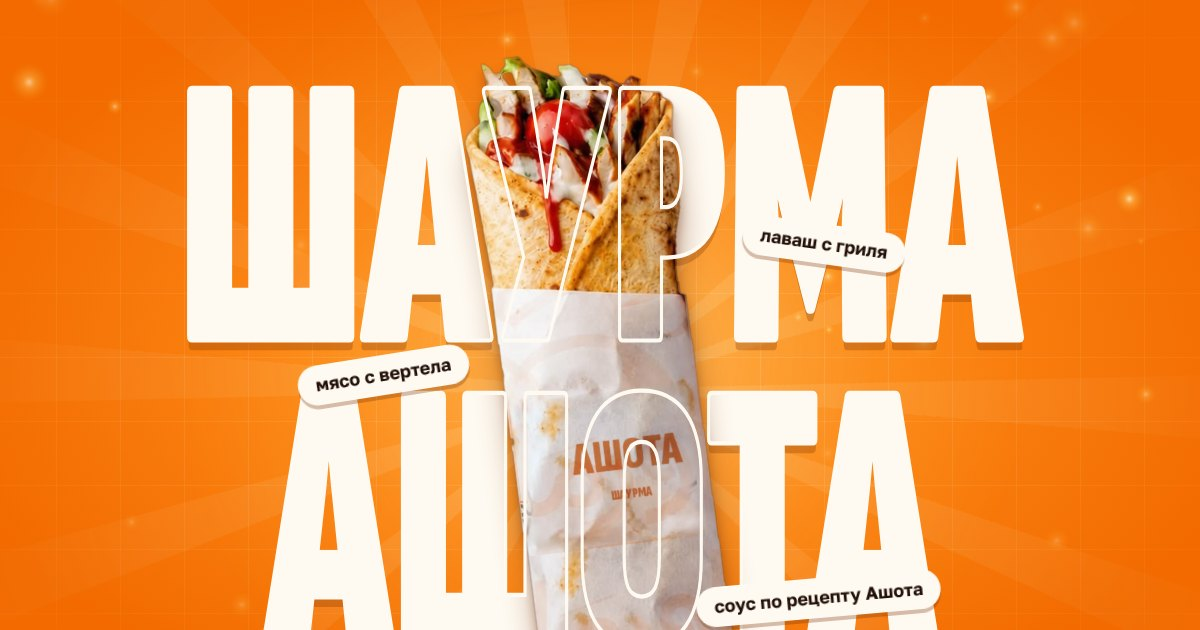
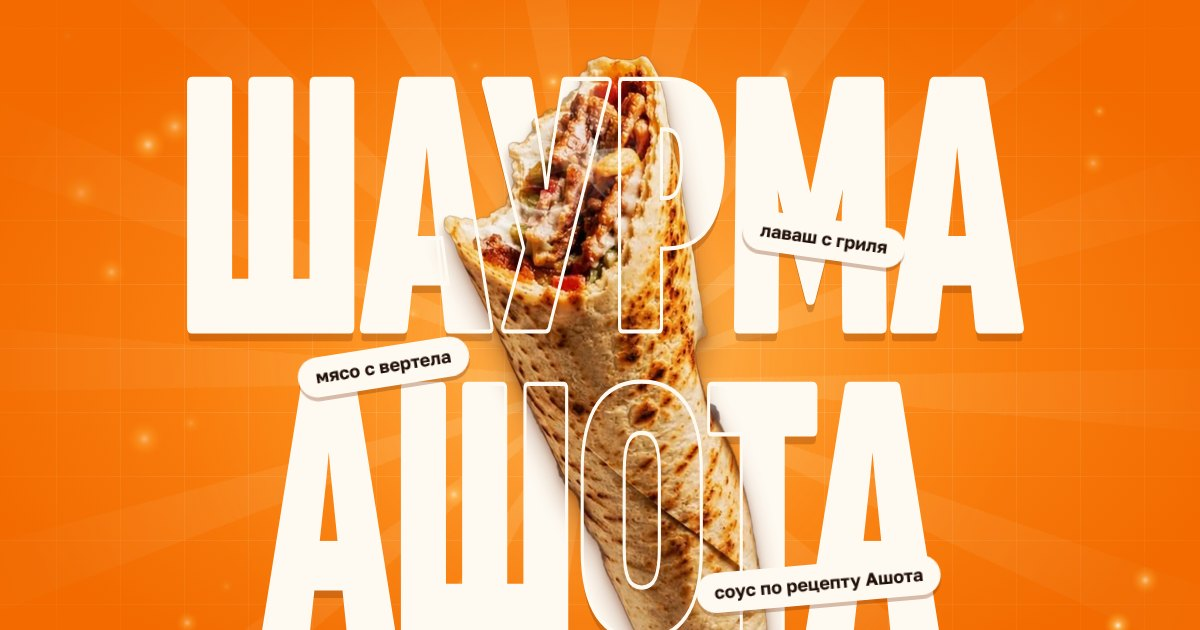
вернул первое фото шаурмы (тень запечена в картинку, без лагов на телефоне)
Claude-Session: https://claude.ai/code/session_01LKqLCBCkB6UpZuAHuehY1V

diff --git a/css/style.css b/css/style.css
@@ -113,7 +113,7 @@ button{cursor:pointer}
 .hero__title--outline{z-index:3;color:transparent;-webkit-text-stroke:max(1.5px,.011em) var(--sauce);pointer-events:none}
 .hero__title--outline .hero__word{text-shadow:none}
 
-.hero__photo{z-index:2;height:calc(var(--fs) * 1.95 * var(--sy));aspect-ratio:813/2000;--px:0px;--py:0px;--rot:-7deg;
+.hero__photo{z-index:2;height:calc(var(--fs) * 1.83 * var(--sy));aspect-ratio:1100/2148;--px:0px;--py:0px;--rot:-7deg;
   transform:translate3d(var(--px),var(--py),0) rotate(var(--rot));will-change:transform}
 .hero__photo img{width:100%;height:100%;object-fit:contain}
 
@@ -146,7 +146,7 @@ button{cursor:pointer}
 /* вертикальные экраны: буквы вытягиваем ещё выше */
 @media (max-aspect-ratio:4/5){
   .hero__stage{--fs:31.5vw;--sy:1.78}
-  .hero__photo{height:calc(var(--fs) * 1.92 * var(--sy))}
+  .hero__photo{height:calc(var(--fs) * 1.77 * var(--sy))}
   .sticker--a{right:auto;left:4vw;top:46.5%}
   .sticker--b{left:auto;right:4vw;top:24%}
   .sticker--c{left:auto;right:5vw;top:79%}
@@ -257,7 +257,7 @@ button{cursor:pointer}
 .opt input:checked + span{background:var(--lavash);border-color:var(--lavash);color:var(--char);font-weight:700}
 .opt input:focus-visible + span{outline:3px solid var(--ember);outline-offset:3px}
 .build__card{position:sticky;top:calc(var(--header-h) + 20px);background:var(--fire);color:var(--char);border-radius:28px;padding:26px 26px 24px;overflow:hidden}
-.build__img{width:112px;float:right;margin:-8px -18px 0 12px;transform:rotate(9deg);filter:drop-shadow(0 12px 14px rgba(90,30,0,.45));shape-outside:polygon(20% 0,100% 0,100% 100%,30% 100%)}
+.build__img{width:165px;float:right;margin:-8px -18px 0 12px;transform:rotate(9deg);filter:drop-shadow(0 12px 14px rgba(90,30,0,.45));shape-outside:polygon(20% 0,100% 0,100% 100%,30% 100%)}
 .build__name{font-family:var(--display);font-weight:900;text-transform:uppercase;font-size:52px;line-height:.9;max-width:4.2em}
 .build__desc{margin-top:14px;font-weight:500;line-height:1.45;min-height:7.5em}
 .build__row{clear:both;display:flex;flex-wrap:wrap;align-items:center;justify-content:space-between;gap:12px;margin-top:14px}

diff --git a/index.html b/index.html
@@ -17,7 +17,7 @@
 <link rel="icon" href="assets/img/favicon.svg" type="image/svg+xml">
 <link rel="manifest" href="manifest.webmanifest">
 <link rel="preload" href="assets/fonts/sofia-sans-extra-condensed-cyrillic-900-normal.woff2" as="font" type="font/woff2" crossorigin>
-<link rel="preload" href="assets/img/shawarma.webp" as="image" imagesrcset="assets/img/shawarma-450.webp 406w, assets/img/shawarma.webp 813w" imagesizes="(max-width: 700px) 60vw, 420px">
+<link rel="preload" href="assets/img/shawarma.webp" as="image" imagesrcset="assets/img/shawarma-450.webp 550w, assets/img/shawarma.webp 1100w" imagesizes="(max-width: 700px) 60vw, 420px">
 <link rel="stylesheet" href="css/style.css">
 </head>
 <body>
@@ -58,9 +58,9 @@
 
     <picture class="hero__photo" id="heroPhoto">
       <img src="assets/img/shawarma.webp"
-           srcset="assets/img/shawarma-450.webp 406w, assets/img/shawarma.webp 813w"
+           srcset="assets/img/shawarma-450.webp 550w, assets/img/shawarma.webp 1100w"
            sizes="(max-width: 700px) 60vw, 420px"
-           width="813" height="2000" alt="Шаурма с курицей, овощами и соусом в фирменной бумаге" fetchpriority="high">
+           width="1100" height="2148" alt="Горячая шаурма с курицей, овощами и чесночным соусом" fetchpriority="high">
     </picture>
 
     <!-- контур букв поверх фото -->
@@ -137,7 +137,7 @@
   <div class="build__grid">
     <form class="build__form" id="builder" novalidate></form>
     <aside class="build__card" aria-live="polite">
-      <img class="build__img" src="assets/img/shawarma-450.webp" width="406" height="1000" alt="" loading="lazy">
+      <img class="build__img" src="assets/img/shawarma-450.webp" width="550" height="1074" alt="" loading="lazy">
       <h3 class="build__name">Ваша шаурма</h3>
       <p class="build__desc" id="buildDesc"></p>
       <div class="build__row">
